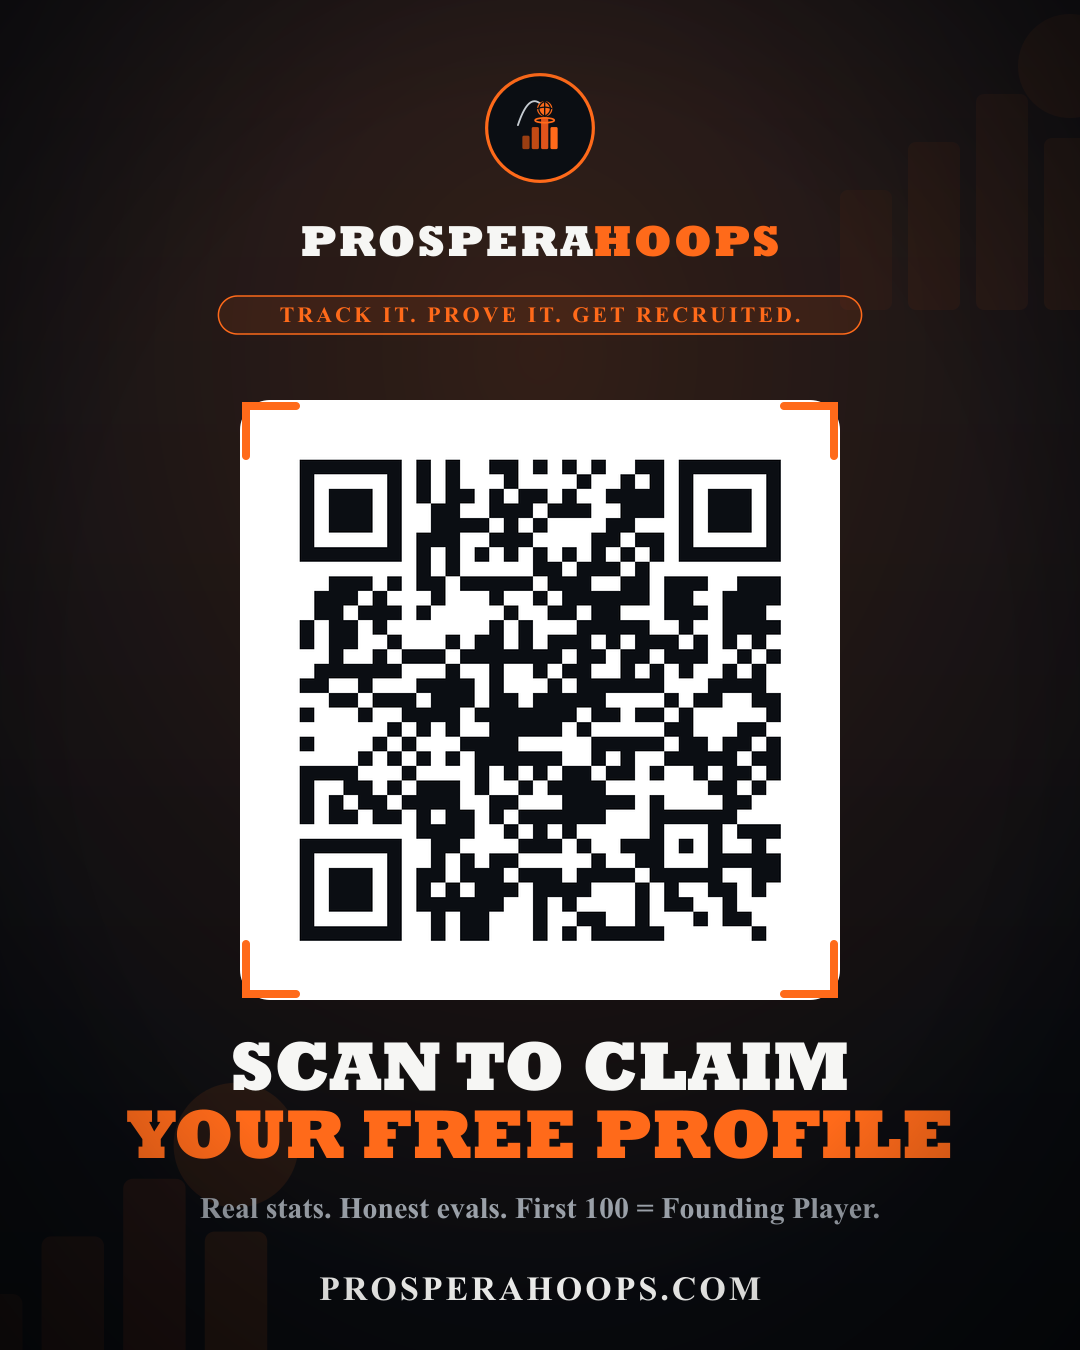
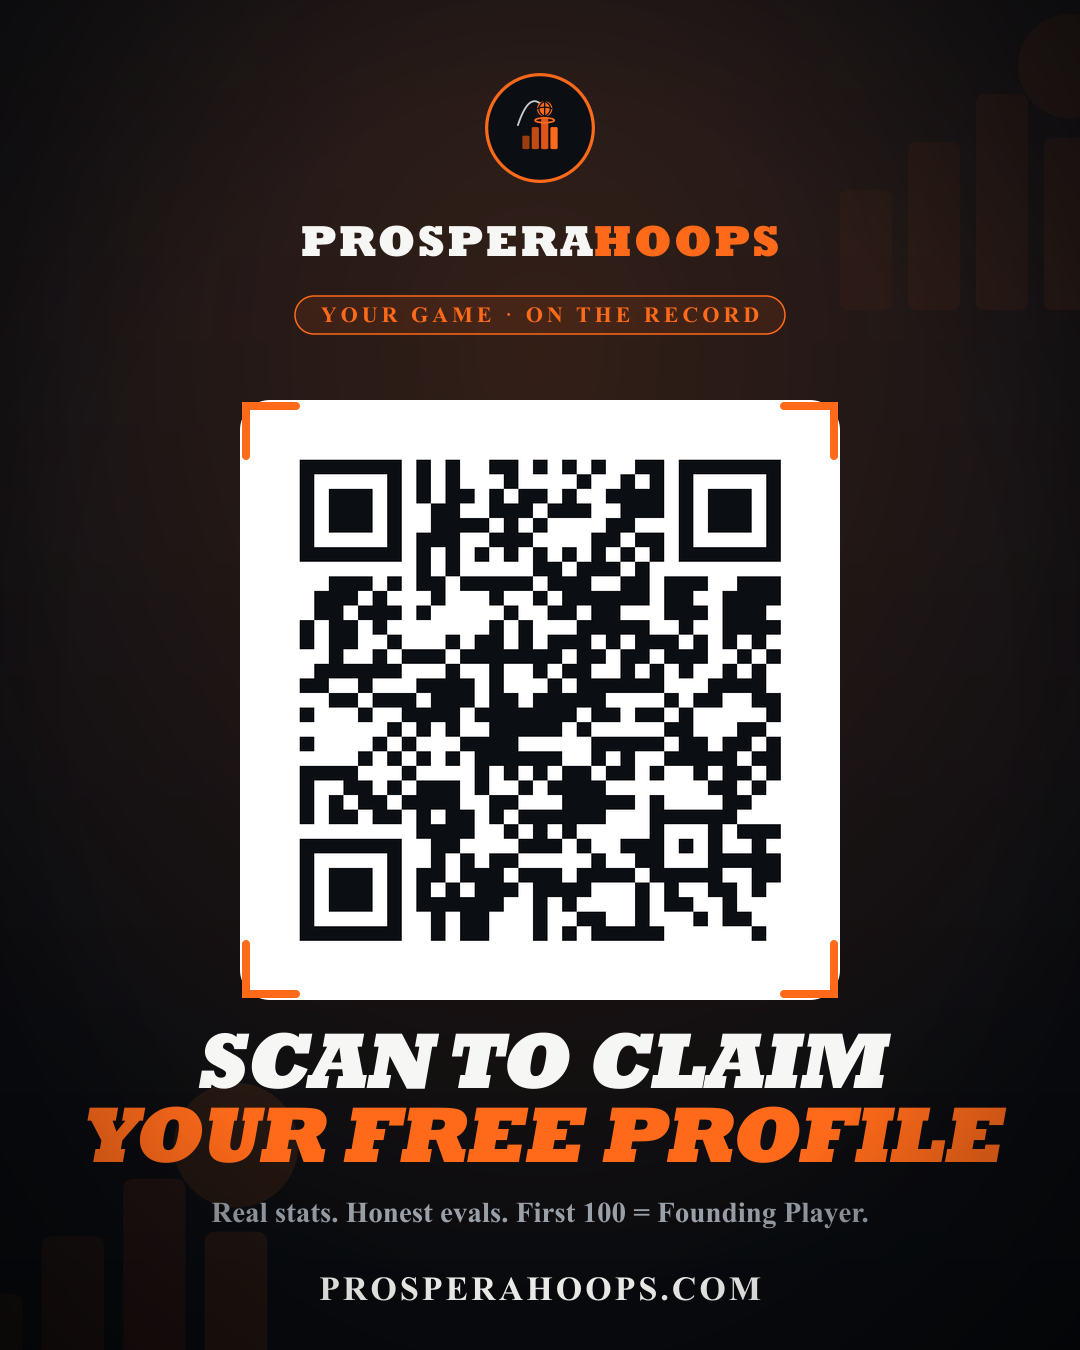
Launch: Thursday launch, dual taglines, athletic flyer headline
- Launch moves to Thursday; calendar reworked to a 3-day runway (Mon/Tue/Wed pre +
  Wed soft-launch at the games + Thu public launch). Announce now reads LIVE THURSDAY.
- Tagline system features BOTH the hook 'Proof over hype.' and the catchy
  'Your game, on the record.' (announce + flyer + bios).
- Flyer headline given an athletic italic slant + tighter tracking to kill the
  generic feel; flyer chip = 'Your game · On the record'.

Changed region(s): [[0.0611, 0.7467, 0.9472, 0.9333], [0.4889, 0.2178, 0.7944, 0.2489], [0.2444, 0.2178, 0.4583, 0.2489]]

diff --git a/docs/launch-marketing.md b/docs/launch-marketing.md
@@ -1,8 +1,9 @@
 # Prospera Hoops — Launch & Social Playbook
 
-Everything to launch the brand and lock in users. Site goes live **Wednesday** at
-**prosperahoops.com**. You'll be at summer-league games **in person starting Wednesday** —
-that's the #1 acquisition channel, so the whole plan is built around it.
+Everything to launch the brand and lock in users. Site goes live **Thursday** at
+**prosperahoops.com**. You'll be at summer-league games **in person starting Wednesday** (soft-launch
++ data collection Wednesday, public launch Thursday) — being there is the #1 acquisition channel, so
+the whole plan is built around it.
 
 Handle everywhere: **@prosperahoops** (claim it on every platform today, even ones you won't
 use yet, so nobody squats it).
@@ -11,12 +12,14 @@ use yet, so nobody squats it).
 
 ## 0. Brand lines (taglines)
 
-- **Hook (sticky, goes everywhere):** **"Proof over hype."** — short, memorable, and it *is* the
-  differentiator (real stats vs. every hype recruiting account).
-- **CTA (player action):** **"Track it. Prove it. Get recruited."** — the loop, dead clear.
-- **Descriptor (credibility, for coaches/parents/SEO):** "The DMV's basketball scouting system of record."
+- **Hook (sticky, positioning):** **"Proof over hype."** — short, memorable; it *is* the differentiator
+  (real stats vs. every hype recruiting account).
+- **Tagline (catchy, player-personal):** **"Your game, on the record."** — emotional, and ties to the
+  "system of record." Great on cards, profiles, the announce graphic.
+- **CTA (action):** **"Track it. Prove it. Get recruited."** — the loop, dead clear.
+- **Descriptor (credibility, coaches/parents/SEO):** "The DMV's basketball scouting system of record."
 
-Lead with the **hook**, support with the **descriptor**, close with the **CTA**.
+Lead with the **hook** or **tagline**, support with the **descriptor**, close with the **CTA**.
 
 ## 1. Account bios
 
@@ -68,12 +71,13 @@ the **badge** (`brand-kit/prospera-badge-512.png`) where a name-in-logo reads be
 
 ## 2. Should you post before launch? YES.
 
-A launch into empty accounts converts terribly. You have a **2-day runway — today (Monday) and
-Tuesday** — to seed content + build a list so Wednesday lands on an audience instead of silence.
+A launch into empty accounts converts terribly. You have a **3-day runway — today (Monday), Tuesday,
+and Wednesday** — to seed content + build a list so **Thursday** lands on an audience instead of silence.
 Pre-launch posts don't say "go use it" (site isn't live) — they say **"this is coming, get in first."**
 
-Goal of the 2 days: **(a)** ~6–8 posts so the grid isn't empty, **(b)** a waitlist of players who
-want their profile, **(c)** the "Founding 100" promo seeded (below). Move fast — it's tight but plenty.
+Goal of the 3 days: **(a)** ~8–10 posts so the grid isn't empty, **(b)** a waitlist of players who want
+their profile, **(c)** the "Founding 100" promo seeded (below). Bonus: you're **at the games Wednesday** —
+soft-launch in person (collect rosters + sign early Founding Players) before going public Thursday.
 
 ---
 
@@ -102,7 +106,7 @@ stats you can't back. "Founding Player" = *was here first*, not *is ranked #1*.
 
 You're physically at the games where these kids and parents are. Convert on the spot.
 
-**Before you go (Tuesday):**
+**Before the games (by Tuesday night):**
 - Print a **QR code** that opens `prosperahoops.com` (I can generate the PNG — see end). Put it on:
   a phone lock-screen, a few printed cards/flyers, and a shirt/sticker if you can.
 - Have the **claim flow ready** and your phone logged in.
@@ -145,24 +149,27 @@ The site **generates pillars 1–3 for you** (cards + recaps). You supply 4–6.
 - **TikTok:** 1–2/day (sideline clips — highest organic upside).
 - Cross-post the card/clip; tailor the caption per platform.
 
-### Monday (today · Day −2) — STAND UP THE ACCOUNTS + REVEAL
+### Monday (today · Day −3) — STAND UP THE ACCOUNTS + REVEAL
 1. Create/secure @prosperahoops on IG, X, TikTok, Facebook (+ reserve YouTube).
 2. Set bios (above), profile pic (coin icon), banner (`brand-kit` lockup).
-3. **Post 1 (announce):** brand reveal. *"The DMV's basketball scouting system of record arrives Wednesday. Every DC/MD/VA hooper — high school and AAU — tracked with real stats and a recruiting profile. Free. prosperahoops.com"* + logo/lockup.
-4. **Post 2 (the cards):** carousel of 3–4 real stat cards (Hayfield / leaders). *"This is your recruiting card — real stats, auto-updated, shareable anywhere. Every DMV player gets one, free. Wednesday."*
-5. **Story:** "Players — want first access? Comment or DM your name + school." (start the waitlist). Countdown sticker (2 days).
+3. **Post 1 (announce):** the `launch-announce.png` reveal — *"Proof over hype. The DMV's basketball scouting system of record arrives Thursday. Every DC/MD/VA hooper — high school and AAU — tracked, with real stats and a recruiting profile. Free."*
+4. **Post 2 (the cards):** carousel of 3–4 real stat cards (Hayfield / leaders). *"Your game, on the record. This is your recruiting card — real stats, auto-updated, shareable anywhere. Every DMV player gets one, free. Thursday."*
+5. **Story:** "Players — want first access? Comment or DM your name + school." (start the waitlist). Countdown sticker (3 days).
 
-### Tuesday (Day −1) — PROMO + SPIKE
-6. **Post 3 (the promo):** announce **Founding 100**. *"First 100 DMV players to claim their profile get a permanent Founding Player badge, a custom stat card, and a featured spotlight across our channels. Wednesday."*
-7. **Post 4 ("tomorrow"):** short reel — quick cuts of cards + *"prosperahoops.com goes live tomorrow."* Countdown sticker (1 day).
-8. **Print the QR code**, charge your phone, pre-write the launch posts.
-9. **DM the waitlist:** "We go live tomorrow — you're on the early list. I'll be at [event] if you want yours done in person."
+### Tuesday (Day −2) — THE PROMO
+6. **Post 3 (the promo):** announce **Founding 100**. *"First 100 DMV players to claim get a permanent Founding Player badge, a custom stat card, and a featured spotlight across our channels. Thursday. Track it. Prove it. Get recruited."*
+7. **Story:** poll/engagement ("what's your summer PPG? 👀"), countdown (2 days). DM new waitlist sign-ups.
 
-### WEDNESDAY (LAUNCH + first games) — GO
-10. **Morning — Post 5 (LAUNCH):** *"We're live. prosperahoops.com — the DMV's scouting system of record. Claim your free profile. Founding 100 starts now."* Pin it. Link in bio + link sticker in story.
-11. **All day at the game:** run the **in-person loop** (§4). Stories nonstop — "claiming players live," clips, "Founding Player #1, #2…".
-12. **Night — Post 6 (recap):** the day's top-performer card + *"Covered [event] today. Tomorrow: [next]. Get your team on here."*
-13. Post the running **Founding 100 count** to story ("37/100 claimed") — scarcity engine.
+### Wednesday (Day −1) — SOFT-LAUNCH AT THE GAMES + SPIKE
+8. **You're at the games.** Run a quiet version of the in-person loop (§4): film buckets, collect rosters/box scores, and tell players *"profiles go live tomorrow — you'll be a Founding Player."* Capture names for the waitlist.
+9. **Post 4 ("tomorrow"):** short reel — sideline clips + cards + *"prosperahoops.com goes live tomorrow."* Countdown (1 day).
+10. **Print the QR flyer** (`qr-flyer.png`), charge your phone, pre-write Thursday's posts. **DM the waitlist:** "We go live tomorrow — you're first."
+
+### THURSDAY (LAUNCH + games) — GO
+11. **Morning — Post 5 (LAUNCH):** *"We're live. prosperahoops.com. Your game, on the record — claim your free profile. Founding 100 starts now."* Pin it. Link in bio + link sticker in story.
+12. **All day at the games:** run the full **in-person loop** (§4). Stories nonstop — "claiming players live," clips, "Founding Player #1, #2…". Load the rosters/box scores you grabbed Wednesday so cards are ready *today*.
+13. **Night — Post 6 (recap):** the day's top-performer card + *"Covered [event]. Get your team on here."*
+14. Post the running **Founding 100 count** to story ("37/100 claimed") — scarcity engine.
 
 ### Thursday–Sunday (Week 1) — REPEAT + COMPOUND
 - Every game day: cover it → cards + recaps → tag players/teams → they repost.
